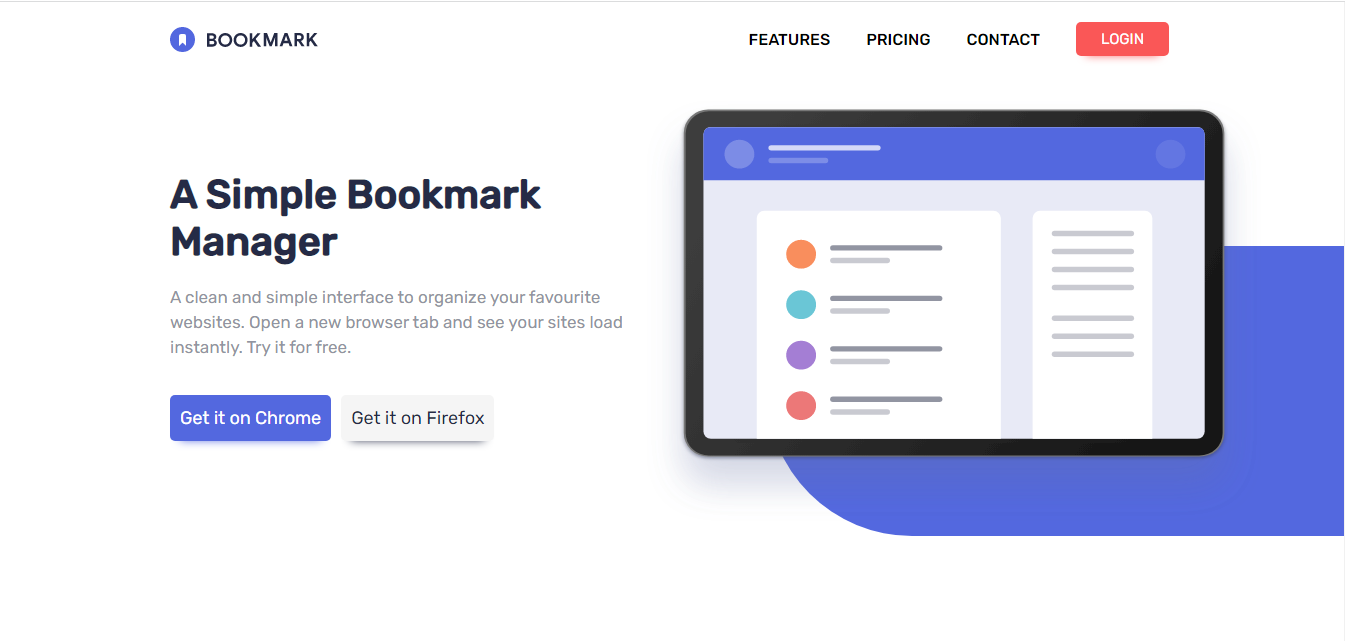
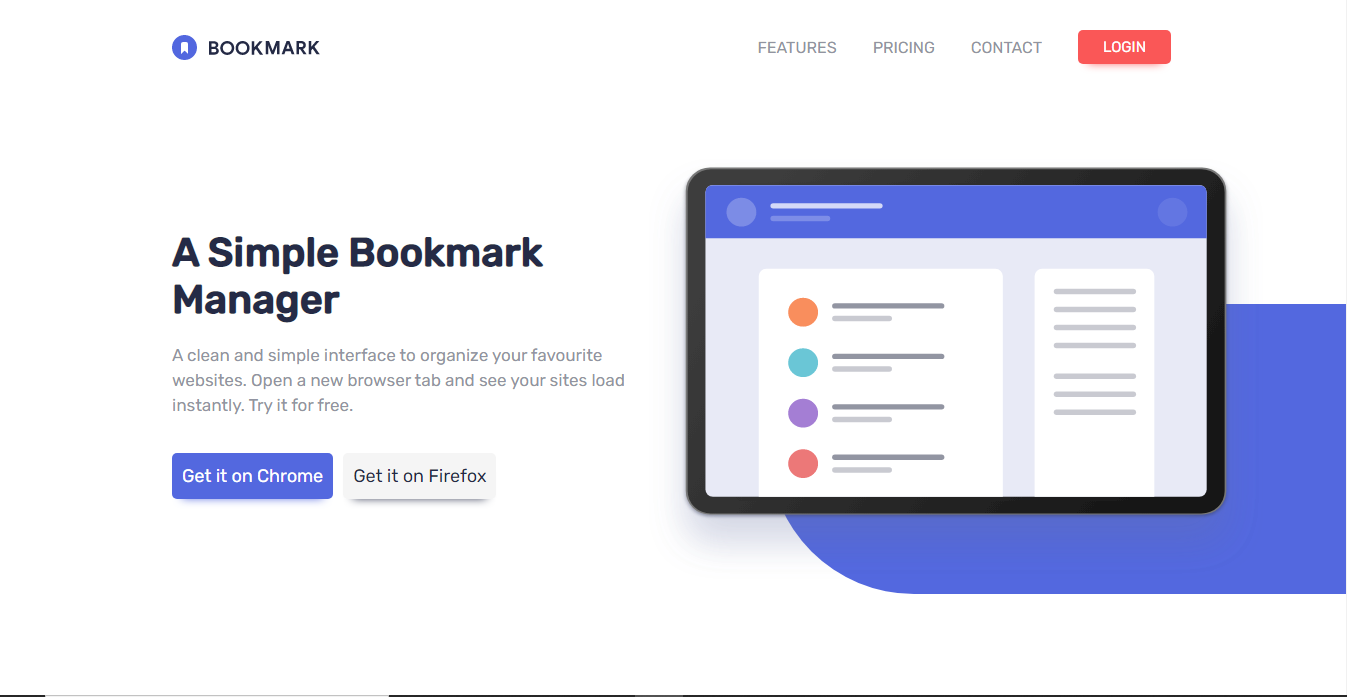
project completion

diff --git a/style.css b/style.css
@@ -24,7 +24,7 @@ body {
 }
 
 header {
-  padding: 15px 40px;
+  padding: 30px 40px;
 }
 
 nav {
@@ -133,8 +133,7 @@ ul li {
 
 .nav-menu a {
   text-transform: uppercase;
-  color: black;
-  font-weight: 500;
+  color: var(--grayish-blue);
   font-size: 16px;
 }
 
@@ -516,7 +515,7 @@ footer {
 .hamburger {
   background-color: var(--dark-blue);
   color: white;
-  padding: 15px 40px 30px;
+  padding: 30px 40px;
   letter-spacing: 2px;
 
   transition: all ease-in-out 0.4s;
@@ -613,7 +612,7 @@ footer {
   }
 
   header {
-    padding: 20px 40px;
+    padding: 30px 40px;
   }
 
   .nav-menu {
@@ -637,7 +636,7 @@ footer {
     flex-direction: row;
     align-items: center;
     justify-content: space-between;
-    padding: 60px 0;
+    padding: 100px 0;
   }
 
   .hero__content {
@@ -679,6 +678,9 @@ footer {
   }
 
   /* Features Tab */
+  .features{
+    padding:80px 0;
+  }
   .features__content > p {
     max-width: 500px;
     margin: 0 auto;
@@ -765,7 +767,7 @@ footer {
   .faq {
     max-width: 550px;
     margin: 0 auto;
-    padding: 70px 0;
+    padding: 90px 0;
   }
 
   .faq__content p {
